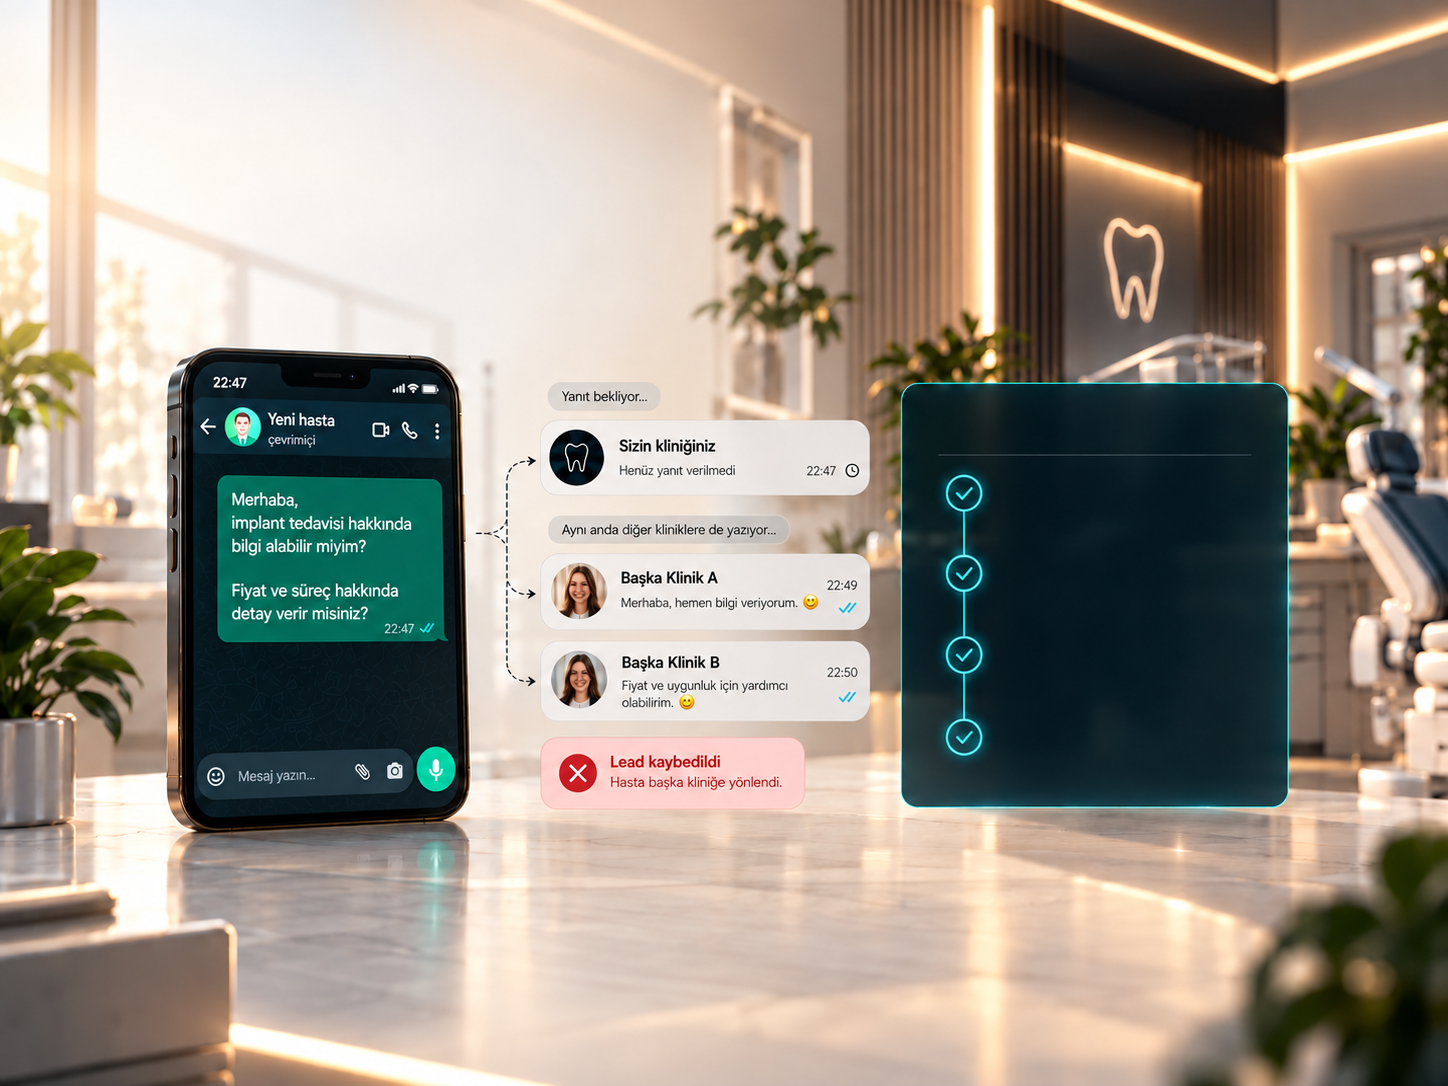
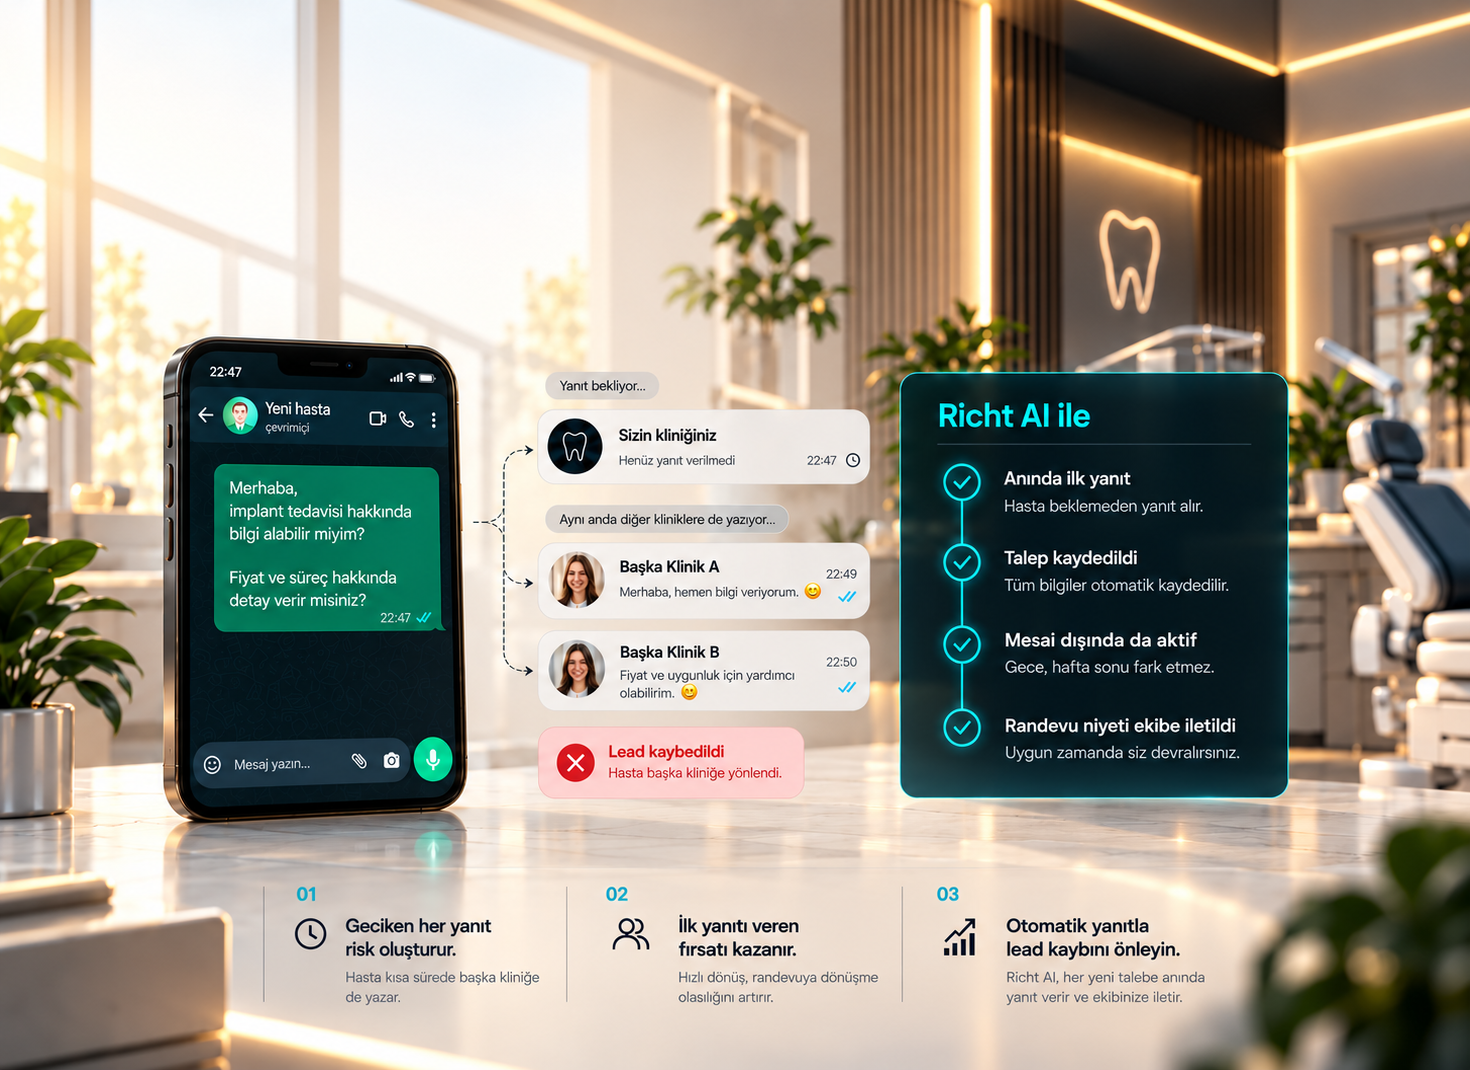
Use static clinic pain visual asset

diff --git a/src/index.css b/src/index.css
@@ -285,93 +285,6 @@
     height: auto;
   }
 
-  .clinic-pain__content {
-    position: absolute;
-    inset: 0;
-    z-index: 1;
-  }
-
-  .clinic-pain__intro {
-    position: absolute;
-    top: 8.5%;
-    left: 12.2%;
-    width: 40%;
-  }
-
-  .clinic-pain__intro h2 {
-    font-size: clamp(2.7rem, 4vw, 4rem);
-    line-height: 0.98;
-    letter-spacing: -0.055em;
-  }
-
-  .clinic-pain__flow-copy {
-    position: absolute;
-    top: 36.2%;
-    left: 64.8%;
-    width: 25.5%;
-    color: #f3f0e9;
-  }
-
-  .clinic-pain__flow-heading {
-    padding-left: clamp(2.5rem, 4.2vw, 4rem);
-  }
-
-  .clinic-pain__flow-heading h3 {
-    @apply font-display font-semibold tracking-[-0.04em] text-teal-300;
-    font-size: clamp(1.5rem, 2.1vw, 2.05rem);
-  }
-
-  .clinic-pain__flow-copy ul {
-    @apply mt-5 grid;
-    gap: clamp(0.75rem, 1.35vw, 1.35rem);
-    padding-left: clamp(2.5rem, 4.2vw, 4rem);
-  }
-
-  .clinic-pain__flow-copy li {
-    @apply flex flex-col text-sm leading-tight text-snow-200 sm:text-base;
-  }
-
-  .clinic-pain__flow-copy li strong {
-    @apply font-display font-semibold text-snow-100;
-  }
-
-  .clinic-pain__flow-copy li span {
-    @apply mt-1 text-xs leading-relaxed text-snow-400 sm:text-sm;
-  }
-
-  .clinic-pain__reasons {
-    position: absolute;
-    right: 10%;
-    bottom: 4.5%;
-    left: 18.2%;
-    display: grid;
-    grid-template-columns: repeat(3, minmax(0, 1fr));
-    color: #121416;
-  }
-
-  .clinic-pain__reason {
-    min-width: 0;
-    padding: 0 2rem;
-    border-left: 1px solid rgba(58, 64, 69, 0.32);
-  }
-
-  .clinic-pain__reason > span {
-    @apply font-display text-sm font-semibold tracking-[0.14em] text-teal-700;
-  }
-
-  .clinic-pain__reason h3 {
-    @apply mt-3 max-w-xs font-display text-lg font-medium leading-snug tracking-tight text-navy-950;
-  }
-
-  .clinic-pain__reason p {
-    @apply mt-3 max-w-xs text-sm leading-relaxed text-navy-500;
-  }
-
-  .clinic-pain__reason:first-child {
-    padding-left: 0;
-    border-left: 0;
-  }
-
   .product-showcase {
     border-top: 1px solid rgba(58, 64, 69, 0.68);
   }
@@ -911,92 +824,7 @@
     }
   }
 
-  @media (max-width: 1023px) {
-    .clinic-pain__stage {
-      display: flex;
-      flex-direction: column;
-    }
-
-    .clinic-pain__art {
-      position: relative;
-      order: 1;
-    }
-
-    .clinic-pain__content {
-      position: relative;
-      inset: auto;
-      order: 2;
-      padding: 3.5rem 1.25rem 4rem;
-    }
-
-    .clinic-pain__intro {
-      position: relative;
-      top: auto;
-      left: auto;
-      width: auto;
-    }
-
-    .clinic-pain__intro h2 {
-      font-size: clamp(2.5rem, 7vw, 4rem);
-    }
-
-    .clinic-pain__flow-copy {
-      position: relative;
-      top: auto;
-      left: auto;
-      width: auto;
-      margin-top: 2.5rem;
-      color: #121416;
-    }
-
-    .clinic-pain__flow-heading {
-      padding-left: 0;
-    }
-
-    .clinic-pain__flow-heading h3 {
-      color: #007f85;
-    }
-
-    .clinic-pain__flow-copy ul {
-      gap: 1rem;
-      padding-left: 0;
-    }
-
-    .clinic-pain__flow-copy li strong {
-      color: #121416;
-    }
-
-    .clinic-pain__flow-copy li span {
-      color: #3a4045;
-    }
-
-    .clinic-pain__reasons {
-      position: relative;
-      right: auto;
-      bottom: auto;
-      left: auto;
-      grid-template-columns: 1fr;
-      margin-top: 3.5rem;
-      border-top: 1px solid rgba(58, 64, 69, 0.32);
-    }
-
-    .clinic-pain__reason,
-    .clinic-pain__reason:first-child {
-      padding: 1.25rem 0;
-      border-left: 0;
-      border-bottom: 1px solid rgba(58, 64, 69, 0.32);
-    }
-  }
-
   @media (min-width: 768px) {
-    .clinic-pain__reasons {
-      grid-template-columns: repeat(3, minmax(0, 1fr));
-    }
-
-    .clinic-pain__reason + .clinic-pain__reason {
-      @apply border-l;
-    }
-
     .pilot-section__step {
       grid-template-columns: 4rem minmax(0, 1fr);
     }

diff --git a/src/components/ClinicPain.tsx b/src/components/ClinicPain.tsx
@@ -1,8 +1,4 @@
-import { useLanguage } from '@/lib/i18n';
-
 export function ClinicPain() {
-  const { copy } = useLanguage();
-
   return (
     <section id="sorun" className="chapter clinic-pain overflow-hidden">
       <div className="clinic-pain__stage">
@@ -12,40 +8,6 @@ export function ClinicPain() {
           alt=""
           aria-hidden="true"
         />
-
-        <div className="clinic-pain__content">
-          <div className="clinic-pain__intro" data-reveal>
-            <span className="chapter-kicker chapter-kicker--dark">{copy.clinicPain.label}</span>
-            <h2 className="chapter-heading chapter-heading--dark mt-5 max-w-3xl whitespace-pre-line font-display font-semibold">
-              {copy.clinicPain.headline}
-            </h2>
-            <p className="mt-5 max-w-2xl text-base leading-relaxed text-navy-500">{copy.clinicPain.description}</p>
-          </div>
-
-          <div className="clinic-pain__flow-copy" data-reveal aria-label={copy.clinicPain.withTitle}>
-            <div className="clinic-pain__flow-heading">
-              <h3>{copy.clinicPain.withTitle}</h3>
-            </div>
-            <ul>
-              {copy.clinicPain.withSteps.map((step) => (
-                <li key={step.title}>
-                  <strong>{step.title}</strong>
-                  <span>{step.description}</span>
-                </li>
-              ))}
-            </ul>
-          </div>
-
-          <div className="clinic-pain__reasons" data-reveal>
-            {copy.clinicPain.reasons.map((reason, index) => (
-              <article key={reason.title} className="clinic-pain__reason">
-                <span>0{index + 1}</span>
-                <h3>{reason.title}</h3>
-                <p>{reason.description}</p>
-              </article>
-            ))}
-          </div>
-        </div>
       </div>
     </section>
   );
